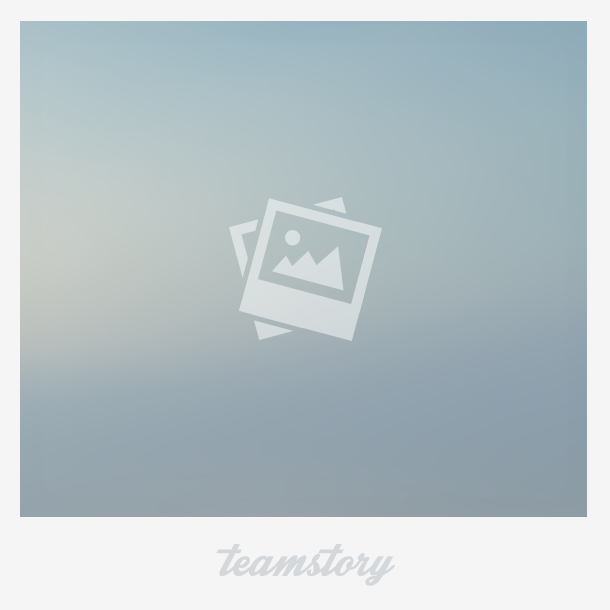
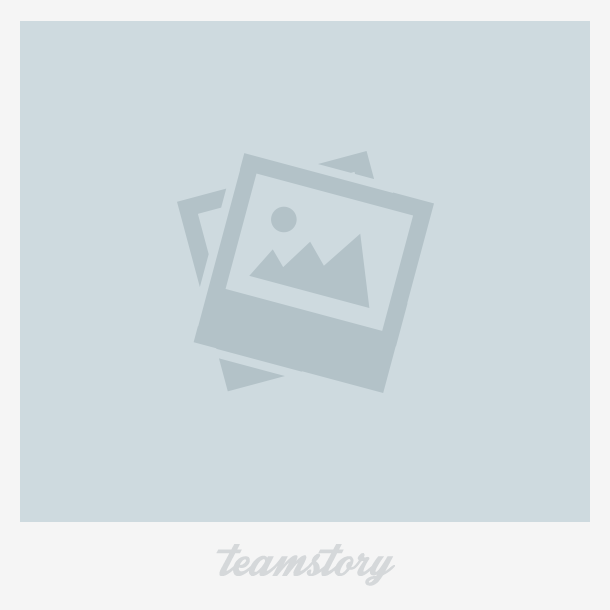
fix website link bug, add new placeholder image

diff --git a/Anypic/PAPAccountViewController.m b/Anypic/PAPAccountViewController.m
@@ -11,7 +11,7 @@
 #import "PAPSettingsActionSheetDelegate.h"
 #import "SVProgressHUD.h"
 #import "PAPwebviewViewController.h"
-#import "followersFollowingViewController.h"
+#import "FollowersFollowingViewController.h"
 
 @interface PAPAccountViewController() {
     float alphaValue_twitter;
@@ -24,6 +24,7 @@
     CGSize website_expectedSize;
 }
 @property (nonatomic, strong) UIView *headerView;
+@property (nonatomic, strong) UIImageView *locationIconImageView;
 @property (nonatomic, strong) UILabel *userDisplayName;
 @property (nonatomic, strong) UILabel *locationLabel;
 @property (nonatomic, strong) UILabel *descriptionLabel;
@@ -159,7 +160,7 @@ static NSString *const freddy_account = @"rblDQcdZcY";
                 if ([self.websiteInfo length] > 0) {
                     website_expectedSize = [self.websiteInfo sizeWithAttributes:@{NSFontAttributeName:[UIFont systemFontOfSize:13.0f]}];
                 } else {
-                    website_expectedSize = CGSizeMake(0.0f, 0.0f);
+                    website_expectedSize = CGSizeMake(132.01f, 15.50f);
                 }
                 
                 UIColor *textColor = [UIColor colorWithRed:158.0f/255.0f green:158.0f/255.0f blue:158.0f/255.0f alpha:1.0f];
@@ -235,8 +236,8 @@ static NSString *const freddy_account = @"rblDQcdZcY";
                 [industryLabel setTextColor:[UIColor whiteColor]];
                 [self.headerView addSubview:industryLabel];
                 
-                [descriptionLabel setFrame:CGRectMake(10.0f, 88.0f, expectedSize.width, expectedSize.height)];
-                [self.headerView addSubview:descriptionLabel];
+                [self.descriptionLabel setFrame:CGRectMake(10.0f, 88.0f, expectedSize.width, expectedSize.height)];
+                [self.headerView addSubview:self.descriptionLabel];
                 
                 if ([self.twitter_url length] > 0) {
                     alphaValue_twitter = 1.0f;
@@ -366,10 +367,10 @@ static NSString *const freddy_account = @"rblDQcdZcY";
         
                 [self.headerView addSubview:self.multiActionButton];
                 
-                UIImageView *locationIconImageView = [[UIImageView alloc] initWithImage:nil];
-                [locationIconImageView setImage:[UIImage imageNamed:@"iconlocation.png"]];
-                [locationIconImageView setFrame:CGRectMake(6.0f, 88.0f + expectedSize.height, 15.0f, 15.0f)];
-                [self.headerView addSubview:locationIconImageView];
+                self.locationIconImageView = [[UIImageView alloc] initWithImage:nil];
+                [self.locationIconImageView setImage:[UIImage imageNamed:@"iconlocation.png"]];
+                [self.locationIconImageView setFrame:CGRectMake(6.0f, 88.0f + expectedSize.height, 15.0f, 15.0f)];
+                [self.headerView addSubview:self.locationIconImageView];
                 
                 if ([self.locationInfo length] > 0) {
                     
@@ -385,7 +386,7 @@ static NSString *const freddy_account = @"rblDQcdZcY";
                                    @{NSFontAttributeName:
                                          self.locationLabel.font}].width;
                     
-                    [self.locationLabel setFrame:CGRectMake(locationIconImageView.frame.origin.x + 20.0f, 88.0f + expectedSize.height, locationLabelWidth + 10.0f, 16.0f)];
+                    [self.locationLabel setFrame:CGRectMake(self.locationIconImageView.frame.origin.x + 20.0f, 88.0f + expectedSize.height, locationLabelWidth + 10.0f, 16.0f)];
                     
                     [self.headerView addSubview:self.locationLabel];
                 
@@ -395,12 +396,10 @@ static NSString *const freddy_account = @"rblDQcdZcY";
                 
                 // the bar separating location and website link
                 self.locationSiteSeparator = [[UILabel alloc] init];
-                
-                self.locationSiteSeparator.frame = CGRectMake(self.locationLabel.frame.origin.x + self.locationLabel.frame.size.width + 10.0f, self.locationLabel.frame.origin.y + 2.0f, 10.0f, 10.0f);
-                
                 self.locationSiteSeparator.font = [UIFont fontWithName:@"Helvetica" size:13.0f];
                 self.locationSiteSeparator.textColor = textColor;
                 self.locationSiteSeparator.text = @"|";
+                self.locationSiteSeparator.frame = CGRectMake(self.locationLabel.frame.origin.x + self.locationLabel.frame.size.width + 10.0f, 91.0f + expectedSize.height, 10.0f, 10.0f);
             
                 [self.headerView addSubview: self.locationSiteSeparator];
                 
@@ -413,6 +412,8 @@ static NSString *const freddy_account = @"rblDQcdZcY";
                     websiteLink.titleLabel.font = [UIFont systemFontOfSize:13.0f];
                     [websiteLink addTarget:self action:@selector(websiteLinkAction:) forControlEvents:UIControlEventTouchUpInside];
                     [self.headerView addSubview:websiteLink];
+                }else{
+                    website_expectedSize = CGSizeMake(132.01f, 15.50f);
                 }
                 
                 linkedIn_button = [[UIButton alloc] init];
@@ -534,13 +535,13 @@ static NSString *const freddy_account = @"rblDQcdZcY";
 
 - (void)showFollowers:(id)selector{
     
-    followersFollowingViewController *showFollowers = [[followersFollowingViewController alloc]initWithStyle:UITableViewStylePlain type:@"followers" forUser:self.user];
+    FollowersFollowingViewController *showFollowers = [[FollowersFollowingViewController alloc]initWithStyle:UITableViewStylePlain type:@"followers" forUser:self.user];
     
     [self.navigationController pushViewController:showFollowers animated:YES];
 }
 
 - (void)showFollowing:(id)selector{
-    followersFollowingViewController *showFollowing = [[followersFollowingViewController alloc]initWithStyle:UITableViewStylePlain type:@"following" forUser:self.user];
+    FollowersFollowingViewController *showFollowing = [[FollowersFollowingViewController alloc]initWithStyle:UITableViewStylePlain type:@"following" forUser:self.user];
     
     [self.navigationController pushViewController:showFollowing animated:YES];
 }
@@ -627,7 +628,7 @@ static NSString *const freddy_account = @"rblDQcdZcY";
         if ([self.websiteInfo length] > 0) {
             website_expectedSize = [self.websiteInfo sizeWithAttributes:@{NSFontAttributeName:[UIFont systemFontOfSize:13.0f]}];
         } else {
-            website_expectedSize = CGSizeMake(0.0f, 0.0f);
+            website_expectedSize = CGSizeMake(132.01f, 15.50f);
         }
         
         self.headerView.frame = CGRectMake( 0.0f, 0.0f, self.tableView.bounds.size.width, 97.0f + expectedSize.height + website_expectedSize.height + 43.0f);
@@ -641,14 +642,16 @@ static NSString *const freddy_account = @"rblDQcdZcY";
         
         [descriptionLabel setFrame:CGRectMake(10.0f, 88.0f, expectedSize.width, expectedSize.height)];
         
-        // re-calculate width size for location label and reset frame
+        // re-calculate width size for location label, image, and separator
         CGFloat locationLabelWidth = [self.locationLabel.text sizeWithAttributes:
                        @{NSFontAttributeName:
                              self.locationLabel.font}].width;
         
-        [self.locationLabel setFrame:CGRectMake(self.locationLabel.frame.origin.x,self.locationLabel.frame.origin.y, locationLabelWidth + 10.0f, self.locationLabel.frame.size.height)];
+        [self.locationLabel setFrame:CGRectMake(self.locationLabel.frame.origin.x, 88.0f + expectedSize.height, locationLabelWidth + 10.0f, self.locationLabel.frame.size.height)];
+        self.locationSiteSeparator.frame = CGRectMake(locationLabelWidth + self.locationLabel.frame.origin.x + 10.0f, 91.5f + expectedSize.height, 10.0f, 10.0f);
+        [self.locationIconImageView setFrame:CGRectMake(6.0f, 88.0f + expectedSize.height, 15.0f, 15.0f)];
         
-        self.locationSiteSeparator.frame = CGRectMake(locationLabelWidth + self.locationLabel.frame.origin.x + 10.0f, self.locationLabel.frame.origin.y + 3.0f, 10.0f, 10.0f);
+        
         
         [websiteLink setFrame:CGRectMake(self.locationSiteSeparator.frame.origin.x + self.locationSiteSeparator.frame.size.width, 89.0f + expectedSize.height, website_expectedSize.width, website_expectedSize.height)];
         [self.industryLabel setFrame:CGRectMake(320.0f - (industry_expectedSize.width + 20.0f), 97.0f + expectedSize.height + website_expectedSize.height, industry_expectedSize.width + 10.0f, 22.0f)];

diff --git a/Anypic/followersFollowingViewController.m b/Anypic/followersFollowingViewController.m
@@ -4,21 +4,21 @@
 //
 //
 
-#import "followersFollowingViewController.h"
+#import "FollowersFollowingViewController.h"
 #import "PAPProfileImageView.h"
 #import "PAPLoadMoreCell.h"
 #import "PAPAccountViewController.h"
 #import "SVProgressHUD.h"
 
 
-@interface followersFollowingViewController ()
+@interface FollowersFollowingViewController ()
 @property (nonatomic, strong) UIView *headerView;
 @property (nonatomic, assign) NSString *type;
 @property (nonatomic, strong) NSMutableArray *results;
 @property (nonatomic, strong) PFUser *selectedUser;
 @end
 
-@implementation followersFollowingViewController
+@implementation FollowersFollowingViewController
 @synthesize headerView;
 #pragma mark - Initialization
 

diff --git a/Anypic/PAPHomeViewController.m b/Anypic/PAPHomeViewController.m
@@ -7,7 +7,7 @@
 #import "PAPHomeViewController.h"
 #import "PAPSettingsActionSheetDelegate.h"
 #import "PAPSettingsButtonItem.h"
-#import "followersFollowingViewController.h"
+#import "FollowersFollowingViewController.h"
 #import "SVProgressHUD.h"
 #import "KonotorUI.h"
 #import <Crashlytics/Crashlytics.h>
@@ -307,7 +307,7 @@
 */
 
 - (void)inviteFriendsButtonAction:(id)sender {
-    followersFollowingViewController *detailViewController = [[followersFollowingViewController alloc] init];
+    FollowersFollowingViewController *detailViewController = [[FollowersFollowingViewController alloc] init];
     [self.navigationController pushViewController:detailViewController animated:YES];
 }
 

diff --git a/Anypic/PAPActivityFeedViewController.m b/Anypic/PAPActivityFeedViewController.m
@@ -11,7 +11,7 @@
 #import "PAPBaseTextCell.h"
 #import "PAPLoadMoreCell.h"
 #import "PAPSettingsButtonItem.h"
-#import "followersFollowingViewController.h"
+#import "FollowersFollowingViewController.h"
 #import "SVProgressHUD.h"
 
 @interface PAPActivityFeedViewController ()
@@ -452,7 +452,7 @@
 }
 
 - (void)inviteFriendsButtonAction:(id)sender {
-    followersFollowingViewController *detailViewController = [[followersFollowingViewController alloc] init];
+    FollowersFollowingViewController *detailViewController = [[FollowersFollowingViewController alloc] init];
     [self.navigationController pushViewController:detailViewController animated:YES];
 }
 

diff --git a/Anypic/followersFollowingViewController.h b/Anypic/followersFollowingViewController.h
@@ -6,7 +6,7 @@
 
 #import "PAPFindFriendsCell.h"
 
-@interface followersFollowingViewController : PFQueryTableViewController <PAPFindFriendsCellDelegate>
+@interface FollowersFollowingViewController : PFQueryTableViewController <PAPFindFriendsCellDelegate>
 
 - (id)initWithStyle:(UITableViewStyle)style type:(NSString *)type forUser:(PFUser *)user;
 

diff --git a/Anypic/PAPSettingsActionSheetDelegate.m b/Anypic/PAPSettingsActionSheetDelegate.m
@@ -5,7 +5,7 @@
 //
 
 #import "PAPSettingsActionSheetDelegate.h"
-#import "followersFollowingViewController.h"
+#import "FollowersFollowingViewController.h"
 #import "PAPAccountViewController.h"
 #import "AppDelegate.h"
 #import "PAPProfileSettingViewController.h"
